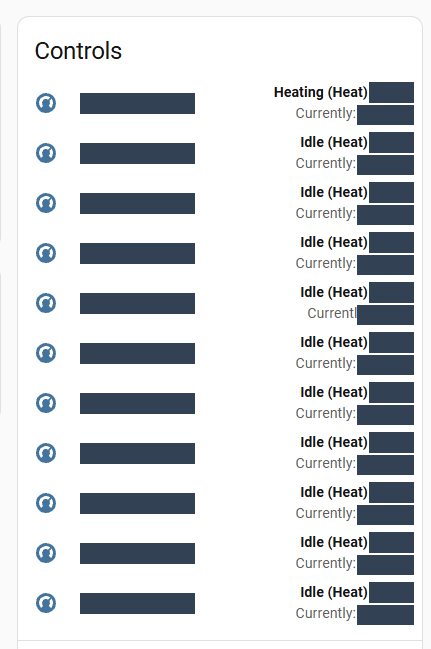
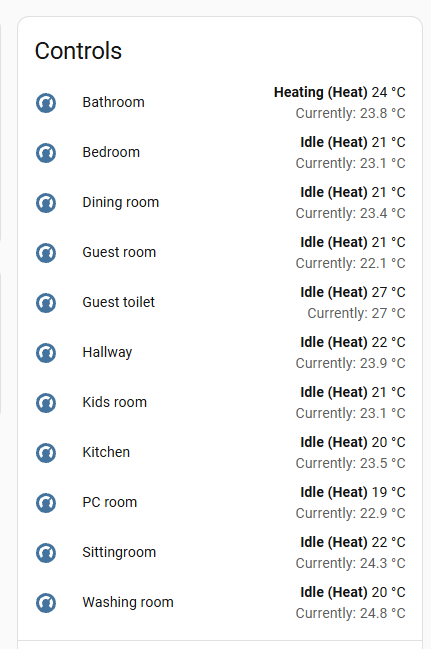
docs: restore approved screenshot values and limit security redactions

diff --git a/docs/images/README.md b/docs/images/README.md
@@ -1,46 +1,56 @@
 # Real screenshot gallery
 
 These nine screenshots were supplied by the owner from the actual application
-and Home Assistant. They are not AI-generated images or UI mockups. Only opaque
-privacy masks and lossless PNG metadata removal were applied; retained pixels,
-dimensions and UI layout are unchanged. No replacement room names, temperatures,
-functions or logos were invented. The original files and archive remain outside Git.
+and Home Assistant. The owner explicitly approved publishing the original room
+names, actual current/target temperatures, heating states, Climate/sensor names,
+normal sensor values, alarm OK/count and system status.
+
+Every output was recreated directly from the original archive, not from an
+already-redacted image. Only the actual MQTT broker address and username are
+covered by two small opaque masks. Image metadata is removed; all other pixels,
+dimensions, labels and UI text are unchanged. No AI-generated screenshot,
+reconstructed value, invented feature or replacement logo is used. The ZIP and
+unprocessed source files remain outside Git.
 
 **All five Ingress captures show App v0.3.0**, in an existing monitoring
 installation. They do not document v0.3.1 first-run setup, CA import or new readiness
-guidance. HA/Core/Supervisor versions and capture timestamps were not supplied
-for this gallery and are not inferred from the images.
+guidance. HA/Core/Supervisor versions and exact capture times were not supplied
+for this gallery. Normal recorded values and diagnostic read timestamps are
+shown as captured; they are not live readings or new validation results.
 
 ## Home Assistant overview
 
-[![Climate devices overview; private names and temperatures redacted](climate-devices-overview.png)](climate-devices-overview.png)
+[![Climate devices overview with original room names and actual current/target temperatures](climate-devices-overview.png)](climate-devices-overview.png)
 
 The README hero is the owner's real **climate-devices-overview.png** capture.
-Room names and measured/target temperatures are hidden. Visible widgets do not
-establish permission to change heating; standard Climate controls may appear
+Original room names and measured/target temperatures are visible with the owner's
+approval. Visible widgets do not establish permission to change heating; controls may appear
 while Heating Control is OFF.
 
 ## Controls
 
-[![Home Assistant Controls; names and temperatures redacted](device-controls.png)](device-controls.png)
+[![Home Assistant Controls with original room names, temperatures and heating states](device-controls.png)](device-controls.png)
 
-The actual device Controls section. Room names and numeric temperatures are
-redacted; the existing heating-state labels and widget layout are retained.
+The actual device Controls section, with original room names, current/target
+temperatures, Heating/Idle states and widget layout. No pixel redaction is
+applied to this image.
 
 ## Sensors
 
-[![Home Assistant Sensors; private names and values redacted](device-sensors.png)](device-sensors.png)
+[![Home Assistant Sensors with original sensor names, values, alarms and system status](device-sensors.png)](device-sensors.png)
 
 Separate current/target-temperature sensor labels and controller-status entries.
-Room-name prefixes, temperature readings, status/alarm values and relative read
-time are hidden. Sensor names retain the original UI language.
+Room names, temperature readings, alarm OK/count, system status and relative
+read time are visible. Sensor names retain the original UI language. No pixel
+redaction is applied to this image.
 
 ## Thermostat
 
-[![Home Assistant thermostat; room name and measured/target values redacted](thermostat-detail.png)](thermostat-detail.png)
+[![Home Assistant thermostat with its original room name and actual measured/target temperatures](thermostat-detail.png)](thermostat-detail.png)
 
-The real Climate more-info dialog, with its private room name and numeric
-measured/target values redacted. Dial artwork and controls are unchanged; a
+The real Climate more-info dialog, with the original room name and actual
+measured/target temperatures visible. No pixel redaction is applied. Dial artwork
+and controls are unchanged; a
 setpoint is not a measured room-air temperature or proof of physical warming.
 
 ## Overview — App v0.3.0
@@ -52,10 +62,12 @@ actions disabled. No identifying fields are visible in this supplied view.
 
 ## MQTT configuration — App v0.3.0
 
-[![Ingress MQTT configuration — App v0.3.0; broker details redacted](mqtt-configuration.png)](mqtt-configuration.png)
+[![Ingress MQTT configuration — App v0.3.0; only broker address and username hidden](mqtt-configuration.png)](mqtt-configuration.png)
 
-Broker address, TLS port and username values are hidden. Password fields are empty;
-configuration actions are disabled in monitoring mode. The screenshot shows
+Only the actual broker address and MQTT username are hidden with small masks
+inside their input fields. TLS port, all input/menu labels and explanatory text
+remain visible. Password fields are empty; configuration actions are disabled
+in monitoring mode. The screenshot shows
 v0.3.0's file-based CA interface, not v0.3.1's public CA import form.
 
 ## Danfoss pairing — App v0.3.0
@@ -68,10 +80,10 @@ This is not a new-user pairing capture or another physical pairing validation.
 
 ## Connection diagnostics — App v0.3.0
 
-[![Ingress Connection diagnostics — App v0.3.0; timestamp redacted](connection-diagnostics.png)](connection-diagnostics.png)
+[![Ingress Connection diagnostics — App v0.3.0; original status and timestamp visible](connection-diagnostics.png)](connection-diagnostics.png)
 
-The version label, runtime readiness and MQTT status are retained. The private
-last-successful-read timestamp is covered. A screenshot is a point-in-time view,
+The version label, runtime readiness, MQTT status and normal last-successful-read
+timestamp are retained. No pixel redaction is applied. A screenshot is a point-in-time view,
 not polling-continuity or long-running stability evidence.
 
 ## Heating control — App v0.3.0, OFF
@@ -84,14 +96,20 @@ or production connection was performed to prepare this gallery.
 
 ## Privacy and review
 
-Private room names, numeric temperatures, broker/account values, household
-status values and timestamps are covered where present. No browser URLs,
-credentials, private keys, certificate bodies/fingerprints or pairing codes
-are published. The unredacted originals, unused alternative overview and ZIP
-are excluded. Public output dimensions and checksums are in [manifest.json](manifest.json).
+The owner approved the room names, actual temperatures, heating states and
+normal sensor/system values shown here. Only security-sensitive values are
+concealed: the MQTT broker address and account name. No passwords, private
+controller identities, pairing codes, keys, certificates/fingerprints, tokens or
+session identifiers are visible in these captures. The unused alternative
+overview, ZIP and unprocessed source files are excluded. Public output dimensions
+and checksums are in [manifest.json](manifest.json).
 
-All nine outputs were inspected visually. A pixel comparison verified that
-every retained pixel equals the original and every redaction pixel is opaque.
+This approval applies to these owner-supplied examples; do not upload credentials
+or other people's installation data in bug reports.
+
+All nine final outputs were inspected visually. A pixel comparison verified
+that eight images preserve every original pixel. The MQTT image differs only
+inside the two approved security-value masks, which are fully opaque.
 PNG outputs contain only IHDR, pHYs, IDAT and IEND chunks; no text/EXIF/time metadata.
 The existing project icon and logo are unchanged.
 
@@ -103,6 +121,7 @@ The existing project icon and logo are unchanged.
 - In-flight settling and safe setup/error states on an authorized test instance.
 
 Do not pair, activate control, change settings or create a production failure
-solely for a screenshot. Future captures must retain real UI, remove private
-details and metadata, and identify the actual App version. No unavailable image
+solely for a screenshot. Future captures must retain real UI, obtain the owner's
+approval for visible installation data, remove security-sensitive values and
+metadata, and identify the actual App version. No unavailable image
 is represented by a broken link or fictional placeholder.

diff --git a/README.md b/README.md
@@ -31,10 +31,10 @@ are required.
 > long-term stability, recovery and broader firmware compatibility remain unverified.
 > [Read the testing scope and limitations](docs/TESTING.md).
 
-[![Real Home Assistant Climate device overview with private room names and temperatures redacted](docs/images/climate-devices-overview.png)](docs/images/climate-devices-overview.png)
+[![Real Home Assistant Climate device overview with original room names and current/target temperatures](docs/images/climate-devices-overview.png)](docs/images/climate-devices-overview.png)
 
-*Real Home Assistant device overview supplied by the owner. Room names and
-temperature values are redacted; the visible widgets do not establish that
+*Real Home Assistant device overview with owner-approved room names and actual
+captured current/target temperatures. Visible widgets do not establish that
 Heating Control is enabled. [Explore the screenshot gallery](docs/images/README.md).*
 
 ## What you get
@@ -132,8 +132,10 @@ Standard Climate widgets may remain visible while control is OFF.
 
 ## Screenshots
 
-These are **real owner-supplied screenshots**, with private information covered
-by opaque masks and image metadata removed. No AI-generated or simulated UI is used.
+These are **real owner-supplied screenshots**, with the owner's approval to
+show room names, actual temperatures, heating states and normal sensor values.
+Only the MQTT broker address and username are masked; image metadata is removed.
+No AI-generated screenshots, reconstructed measurements or simulated UI are used.
 Select any image for full resolution; the [full gallery](docs/images/README.md)
 explains each view and the remaining captures.
 
@@ -142,9 +144,9 @@ explains each view and the remaining captures.
 <table>
   <tr><th>Controls</th><th>Sensors</th><th>Thermostat</th></tr>
   <tr>
-    <td valign="top"><a href="docs/images/device-controls.png"><img src="docs/images/device-controls.png" height="340" alt="Real HA Controls section; room names and temperatures redacted"></a></td>
-    <td valign="top"><a href="docs/images/device-sensors.png"><img src="docs/images/device-sensors.png" height="340" alt="Real HA Sensors section; names, values, household status and time redacted"></a></td>
-    <td valign="top"><a href="docs/images/thermostat-detail.png"><img src="docs/images/thermostat-detail.png" height="340" alt="Real HA thermostat dialog; room name and measured/target temperatures redacted"></a></td>
+    <td valign="top"><a href="docs/images/device-controls.png"><img src="docs/images/device-controls.png" height="340" alt="Real HA Controls section with room names, heating states and actual current/target temperatures"></a></td>
+    <td valign="top"><a href="docs/images/device-sensors.png"><img src="docs/images/device-sensors.png" height="340" alt="Real HA Sensors section with original names, measurements, alarm values and system status"></a></td>
+    <td valign="top"><a href="docs/images/thermostat-detail.png"><img src="docs/images/thermostat-detail.png" height="340" alt="Real HA thermostat dialog with its original room name and actual measured/target temperatures"></a></td>
   </tr>
 </table>
 
@@ -165,18 +167,19 @@ The pairing page shows stored pairing, and the Heating control page shows OFF.
 
 [![Overview — App v0.3.0](docs/images/ingress-overview.png)](docs/images/ingress-overview.png)
 
-**MQTT configuration — App v0.3.0.** Broker/account values redacted; forms are
+**MQTT configuration — App v0.3.0.** Only the broker address and username are
+hidden. Field labels, TLS port and explanatory text remain visible; forms are
 disabled in monitoring mode. This is the older file-based CA interface.
 
-[![MQTT configuration — App v0.3.0; broker details redacted](docs/images/mqtt-configuration.png)](docs/images/mqtt-configuration.png)
+[![MQTT configuration — App v0.3.0; only broker address and username hidden](docs/images/mqtt-configuration.png)](docs/images/mqtt-configuration.png)
 
 **Danfoss pairing — App v0.3.0.** An existing stored pairing; no pairing code or identity is shown.
 
 [![Danfoss pairing — App v0.3.0; existing stored pairing](docs/images/danfoss-pairing.png)](docs/images/danfoss-pairing.png)
 
-**Connection diagnostics — App v0.3.0.** Runtime status with the private read timestamp redacted.
+**Connection diagnostics — App v0.3.0.** Original runtime status and last-successful-read timestamp.
 
-[![Connection diagnostics — App v0.3.0; timestamp redacted](docs/images/connection-diagnostics.png)](docs/images/connection-diagnostics.png)
+[![Connection diagnostics — App v0.3.0; original status and timestamp visible](docs/images/connection-diagnostics.png)](docs/images/connection-diagnostics.png)
 
 **Heating control — App v0.3.0, OFF.** The actual permission/activation safety
 messages and disabled ON form. No ON screenshot was supplied.

diff --git a/docs/COMMUNITY-ANNOUNCEMENT.md b/docs/COMMUNITY-ANNOUNCEMENT.md
@@ -23,8 +23,9 @@ Preview, not Stable or certified. Controller schedules remain authoritative;
 HA permissions and broker ACLs matter when control is ON.
 
 The README shows the original logo, a real Home Assistant Climate-device hero,
-Controls/Sensors/thermostat views and all five Ingress pages. Private details
-are redacted; the Ingress captures are labeled App v0.3.0 and do not represent
+Controls/Sensors/thermostat views and all five Ingress pages. Room names and
+actual temperatures are shown with owner approval; only the MQTT broker address
+and username are hidden. The Ingress captures are labeled App v0.3.0 and do not represent
 the v0.3.1 first-run UI.
 Please use GitHub Issues for bugs, installation feedback and suggestions.
 Never post credentials, pairing state, certificates, backups or household data.
